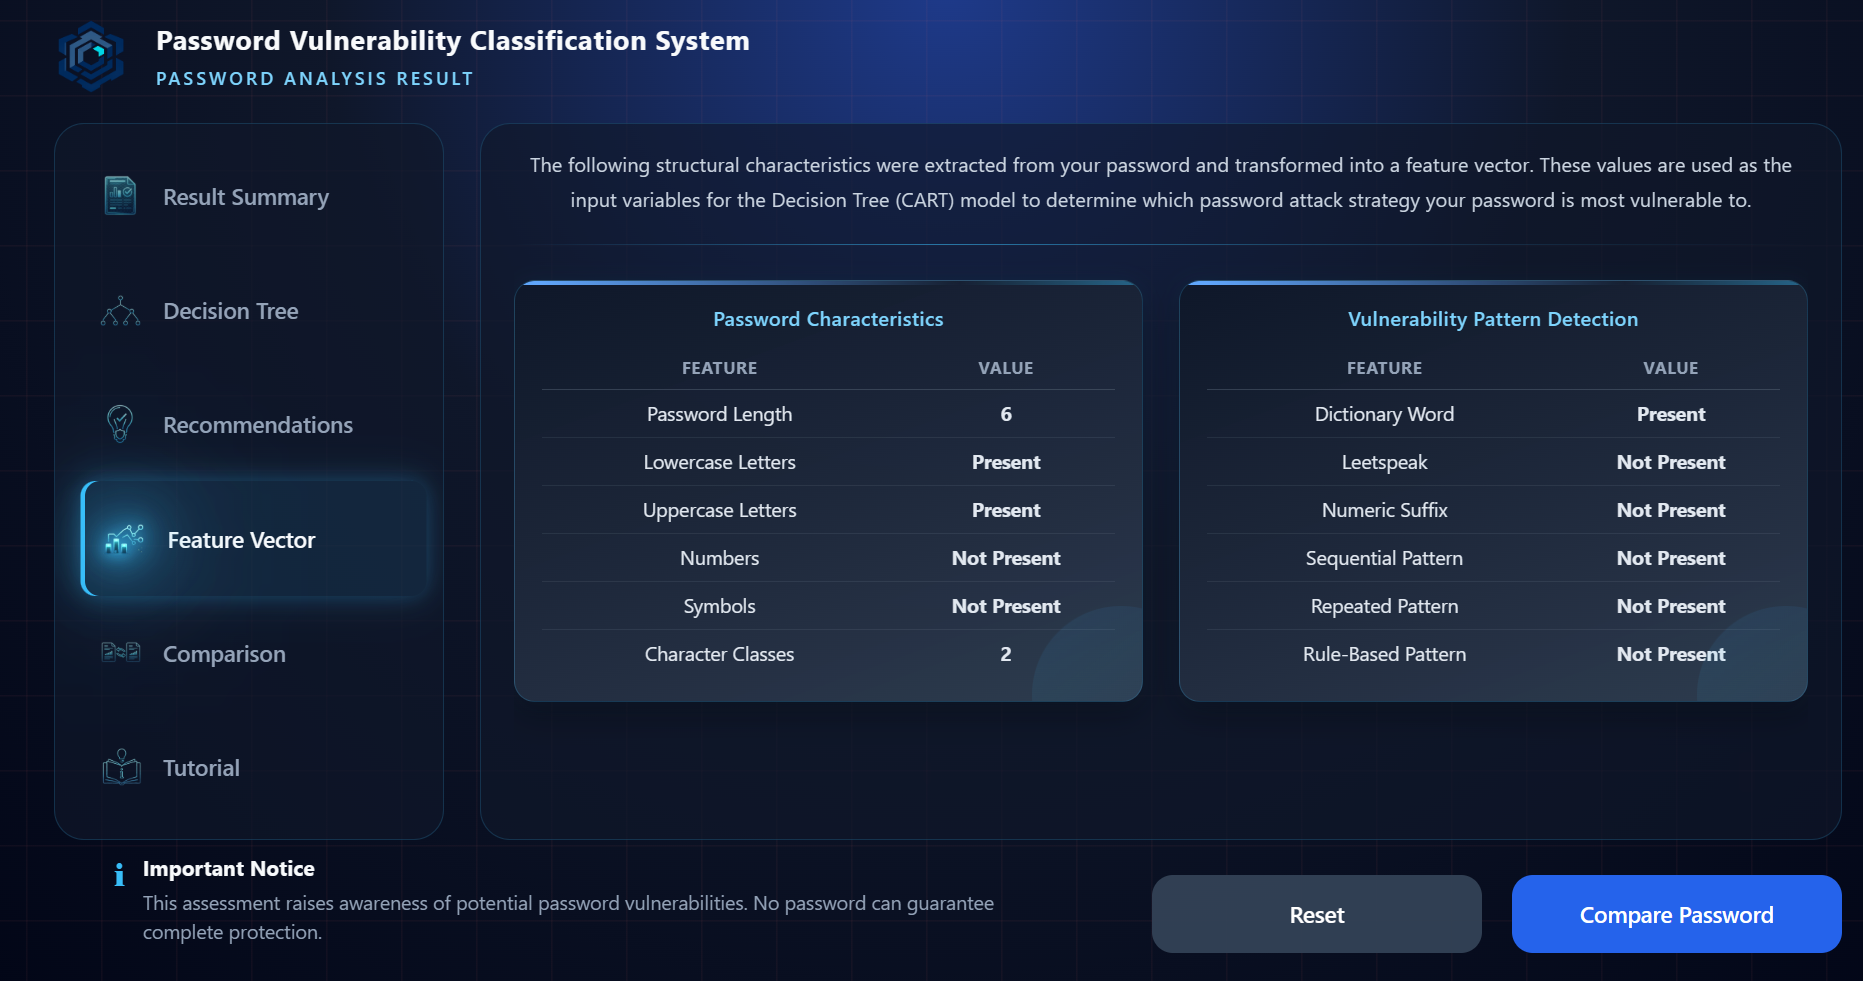
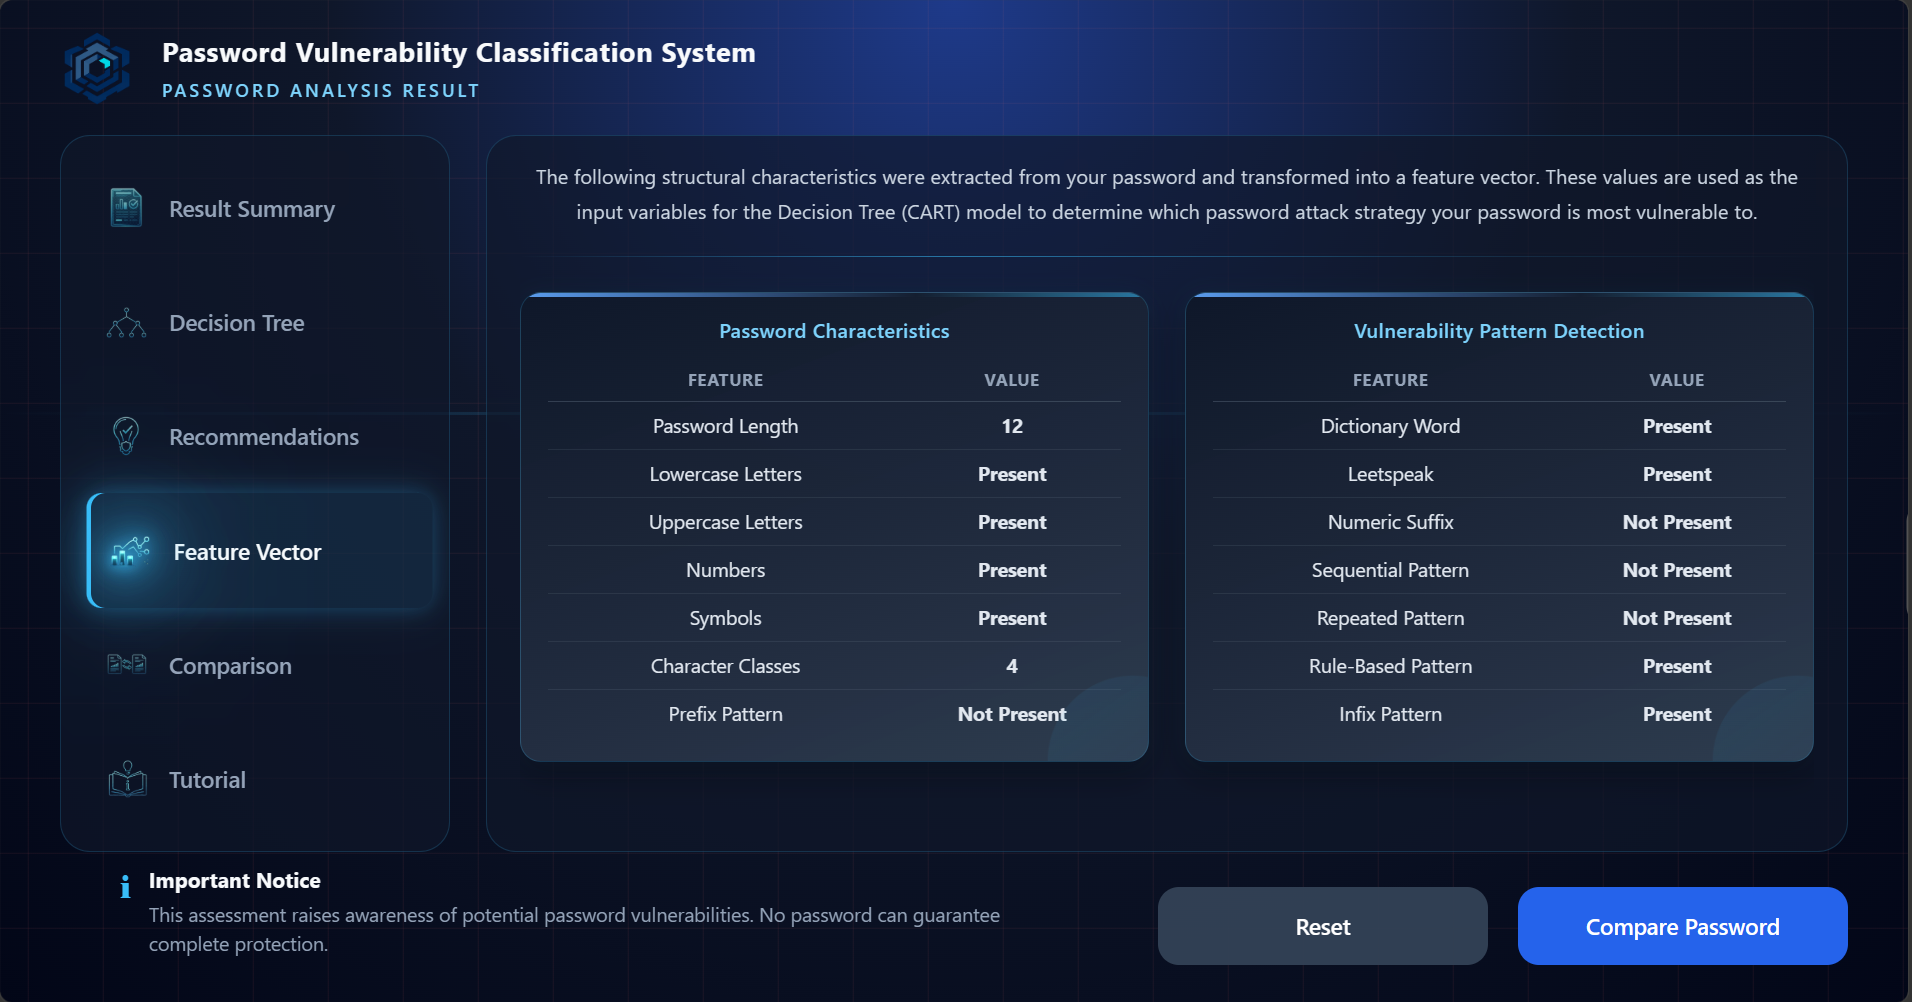
added prefix and infix pattern in the feature vector  and updated in steps and tutorial

diff --git a/frontend/js/featureVector.js b/frontend/js/featureVector.js
@@ -26,6 +26,7 @@ const FeatureVector = (() => {
         setValue("fvDigits", convert(features.has_digit));
         setValue("fvSymbols", convert(features.has_symbol));
         setValue("fvClasses", features.character_class_count);
+        setValue("fvPrefix", convert(features.numeric_prefix)); 
 
         // PATTERN FEATURES
         setValue("fvDictionary", convert(features.dictionary_present));
@@ -34,6 +35,7 @@ const FeatureVector = (() => {
         setValue("fvSequence", convert(features.has_sequence));
         setValue("fvRepetition", convert(features.has_repetition));
         setValue("fvRulePattern", convert(features.rule_pattern_present));
+        setValue("fvInfix", convert(features.numeric_infix)); 
     }
 
     // SAFE ELEMENT UPDATE

diff --git a/frontend/js/comparison.js b/frontend/js/comparison.js
@@ -372,12 +372,12 @@ function updateComparisonSummary(comparison) {
 
     if (status === "CURRENT_PREFERRED") {
         summary =
-            "Your current password is stronger than your previous password based on its overall security characteristics.";
+            "Your current password is favorable than your previous password based on its overall security characteristics.";
     }
 
     else if (status === "PREVIOUS_PREFERRED") {
         summary =
-            "Your previous password is stronger than your current password based on its overall security characteristics.";
+            "Your previous password is favorable than your current password based on its overall security characteristics.";
     }
 
     else if (status === "IDENTICAL") {

diff --git a/frontend/pages/components/featureVector.html b/frontend/pages/components/featureVector.html
@@ -63,6 +63,11 @@
                             <td id="fvClasses">-</td>
                         </tr>
 
+                        <tr>
+                            <td>Prefix Pattern</td>
+                            <td id="fvPrefix">-</td>
+                        </tr>
+
                     </tbody>
                 </table>
             </div>
@@ -109,6 +114,11 @@
                         <tr>
                             <td>Rule-Based Pattern</td>
                             <td id="fvRulePattern">-</td>
+                        </tr>
+
+                        <tr>
+                            <td>Infix Pattern</td>
+                            <td id="fvInfix">-</td>
                         </tr>
 
                     </tbody>
